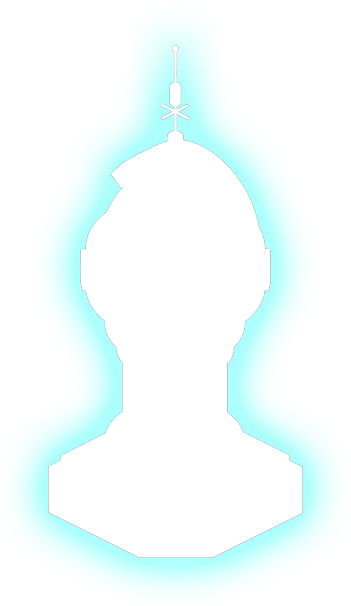
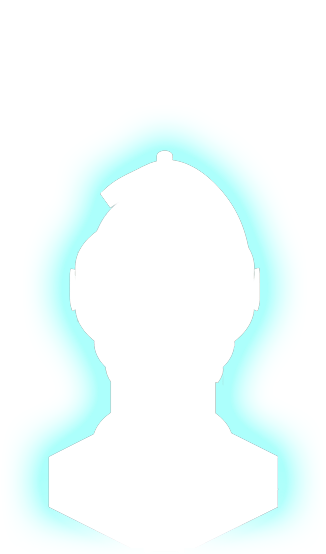
done

Changed region(s): [[0.0613, 0.0614, 0.9202, 0.9819]]

diff --git a/src/buildings/config.ts b/src/buildings/config.ts
@@ -46,8 +46,14 @@ import libraryTowerLevel0Stroke from './library/0-stroke.png';
 import libraryTowerLevel1Stroke from './library/1-stroke.png';
 import libraryTowerLevel2Stroke from './library/2-stroke.png';
 import libraryTowerLevel3Stroke from './library/3-stroke.png';
+import observatoryTowerLevel0Img from './observatory/0.png';
+import observatoryTowerLevel0Stroke from './observatory/0-stroke.png';
+import observatoryTowerLevel1Img from './observatory/1.png';
+import observatoryTowerLevel1Stroke from './observatory/1-stroke.png';
 import observatoryTowerLevel2Img from './observatory/2.png';
 import observatoryTowerLevel2Stroke from './observatory/2-stroke.png';
+import observatoryTowerLevel3Img from './observatory/3.png';
+import observatoryTowerLevel3Stroke from './observatory/3-stroke.png';
 import tariffTowerLevel0Img from './tariff/0.png';
 import tariffTowerLevel0Stroke from './tariff/0-stroke.png';
 import tariffTowerLevel1Img from './tariff/1.png';
@@ -489,29 +495,30 @@ class BuildingsService {
     },
     [TowersTypes.OBSERVATORY]: {
       info: 'info',
-      title: 'Здание партнера',
+      title: 'Здание партнера 4',
       wideTower: false,
       zIndex: ZIndexes.BUILDING_THREE_LEVEL,
-      maxLevel: TowerLevel.mid,
-      hide: true,
-      width: 351,
-      height: 606,
-      areaCoords: '128,57,418,291',
-      position: [42.2, 36.9],
+      maxLevel: TowerLevel.high,
+      width: 326,
+      height: 554,
+      areaCoords: '49,132,273,553',
+      position: [40.1, 66.1],
       ref: null,
+      [TowerLevel.deactive]: {
+        img: observatoryTowerLevel0Img,
+        shadowImg: observatoryTowerLevel0Stroke,
+      },
       [TowerLevel.low]: {
-        // TODO: не настоящая картинка
-        img: musicTowerLevel1Img,
-        shadowImg: musicTowerLevel1Stroke,
+        img: observatoryTowerLevel1Img,
+        shadowImg: observatoryTowerLevel1Stroke,
       },
       [TowerLevel.mid]: {
         img: observatoryTowerLevel2Img,
         shadowImg: observatoryTowerLevel2Stroke,
       },
       [TowerLevel.high]: {
-        // TODO: не настоящая картинка
-        img: eggTowerLevel3Img,
-        shadowImg: eggTowerLevel3Stroke,
+        img: observatoryTowerLevel3Img,
+        shadowImg: observatoryTowerLevel3Stroke,
       },
     },
     [TowersTypes.MOBILE_NETWORK]: {

diff --git a/src/components/markers/index.tsx b/src/components/markers/index.tsx
@@ -172,6 +172,16 @@ export const MarkerWrapper = styled.div<{ displayFlag: boolean }>`
       top: 40px;
     }
   }
+
+  &[data-towertype=${TowersTypes.OBSERVATORY}] {
+    &[data-towerlevel='0'],
+    &[data-towerlevel='1'] {
+      top: 155px;
+    }
+    &[data-towerlevel='2'] {
+      top: 115px;
+    }
+  }
 `;
 
 export const Markers: React.FC<IMarkers> = ({

diff --git a/src/effector/towers-progress/store.ts b/src/effector/towers-progress/store.ts
@@ -189,7 +189,7 @@ const initState: TowersProgressStoreType = {
     productId: 1,
     points: 0,
     level: {
-      level: TowerLevel.mid,
+      level: TowerLevel.deactive,
       name: '0 уровень',
       levelOnServer: 0,
     },
